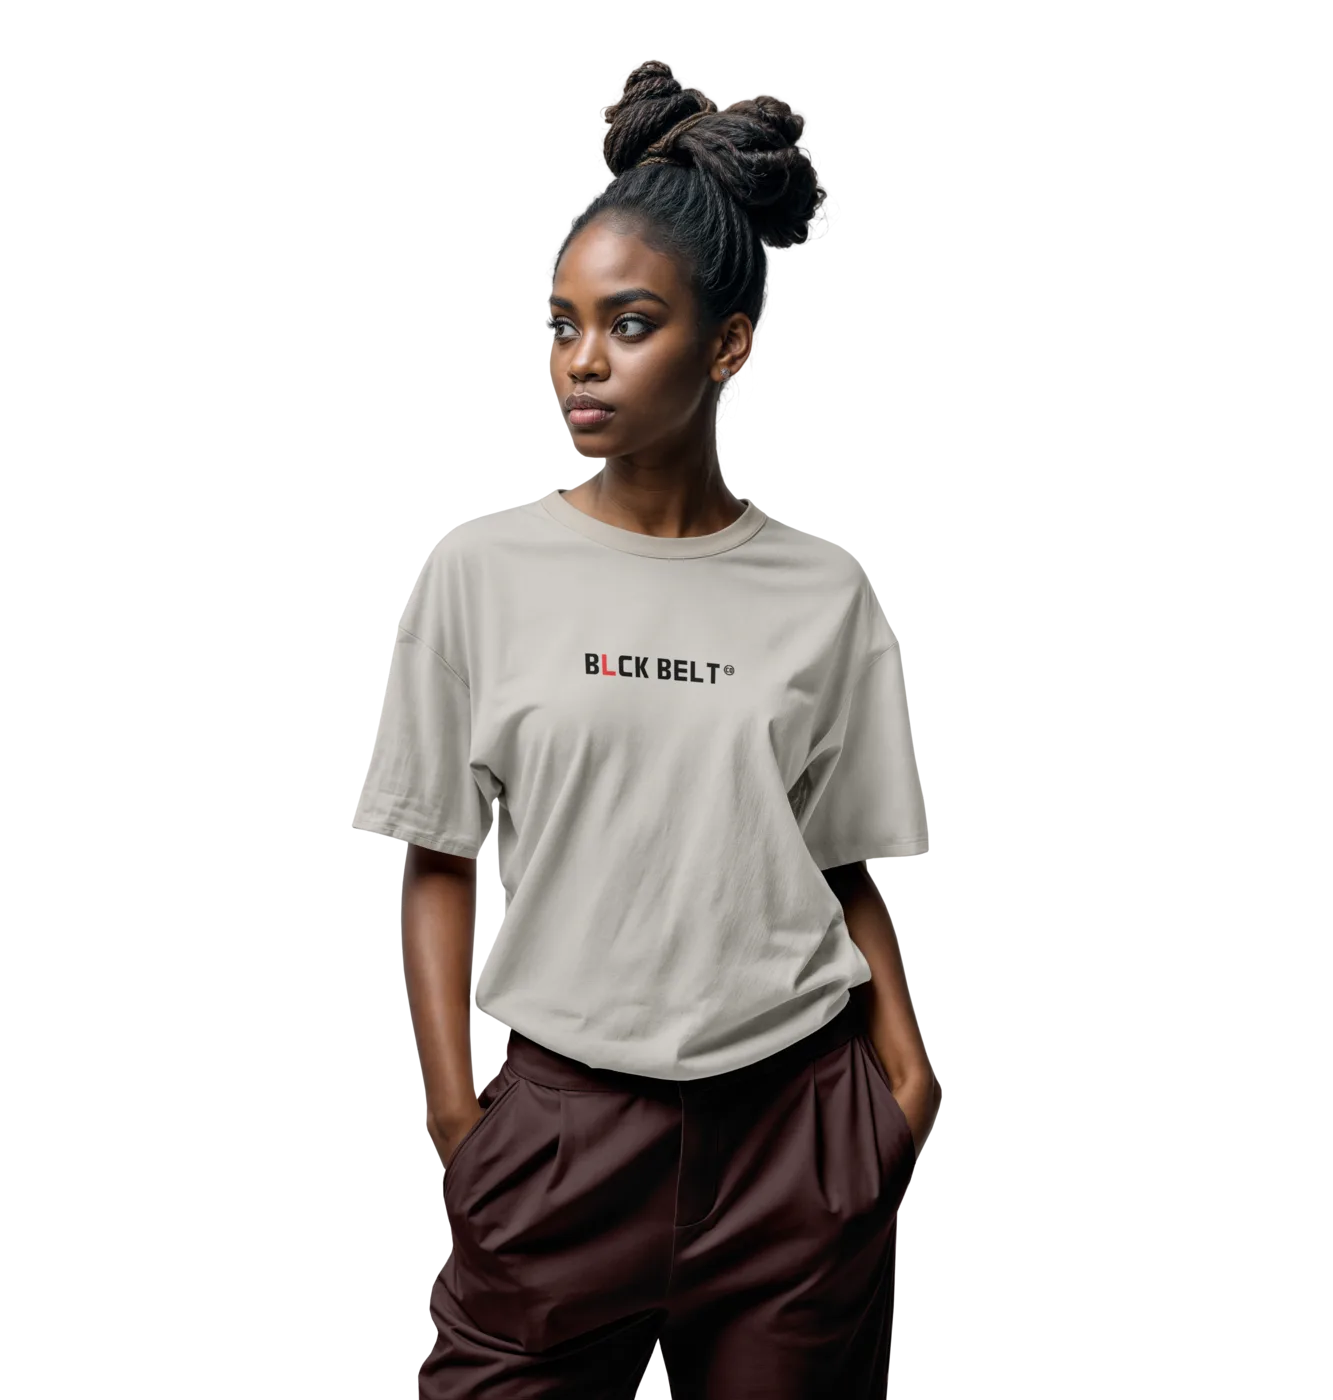
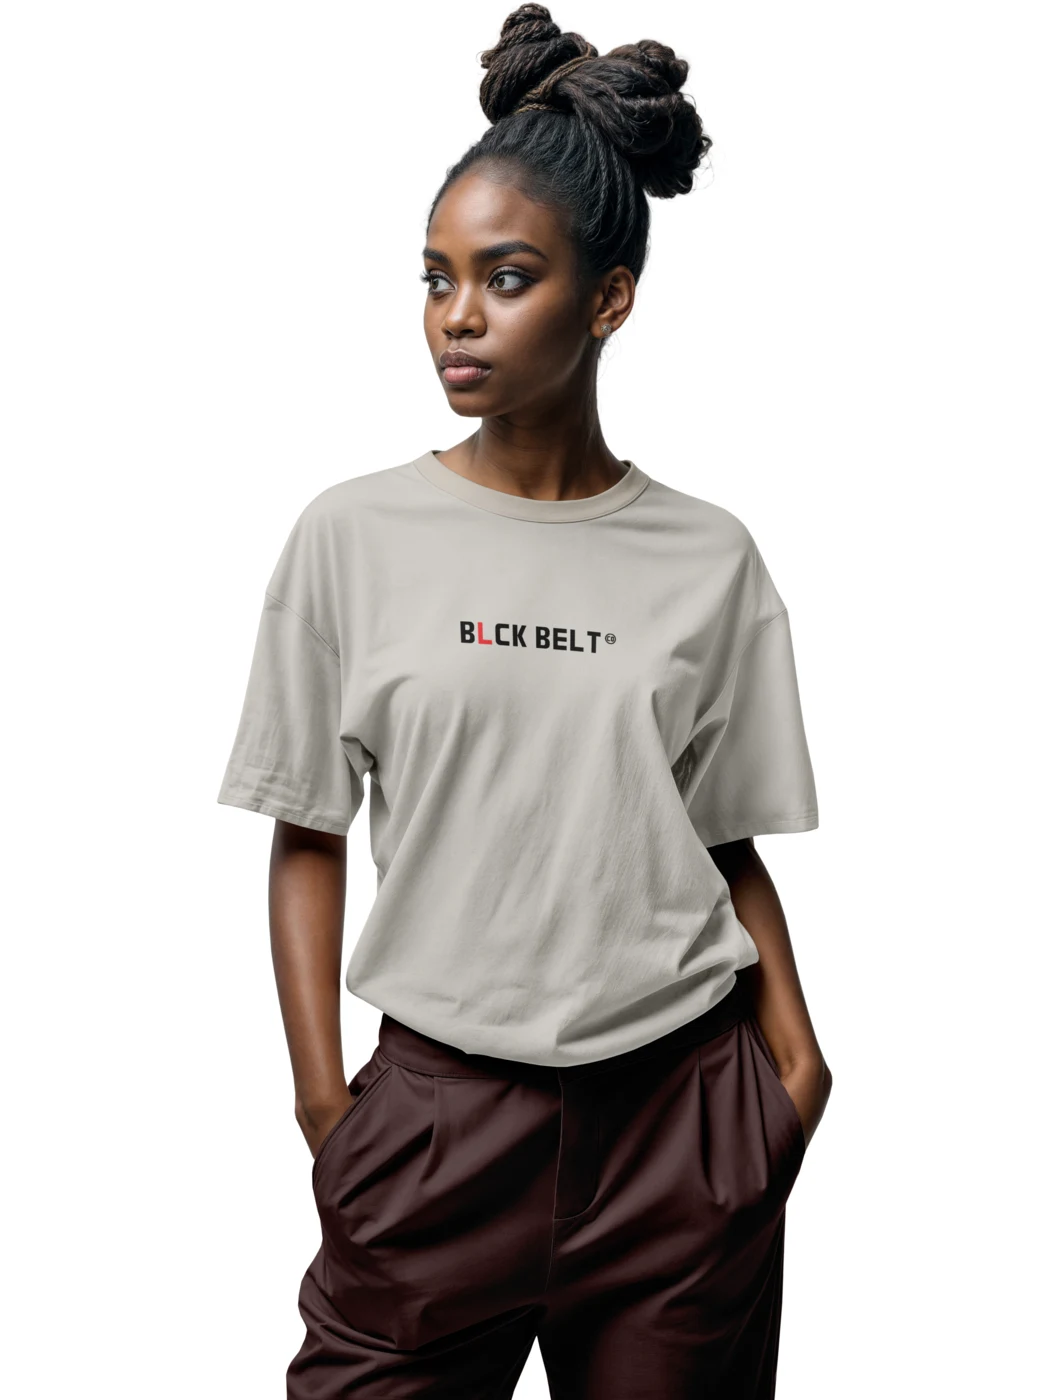
fix: padroniza fotos dos produtos pra 3:4 com modelo encostado na base
Black Belt original ja era 3/4 (preenchia o quadro), mas Eat Sleep (0.93) e Off
White (0.95) eram quase quadradas, entao com contain ficavam menores e flutuando
no meio do card.

Reprocessei as 6 fotos: trim do fundo (fuzz 7%) pra pegar o bbox do modelo +
recomposicao numa tela 3:4 (1050x1400) com gravity south (modelo encostado na
base) sobre fundo branco. Agora todas tem a mesma proporcao e o modelo preenche
a altura igual a primeira.

Componentes: ProductCard e PDP voltam pra object-cover (encaixe perfeito no 3:4,
base toca o fim do quadro), bg branco pra mesclar com o padding das fotos. PDP
main vira aspect-3/4. Validado: 3 cards com modelos da mesma altura, base alinhada.

Changed region(s): [[0.2133, 0.0, 0.7924, 1.0], [0.4876, 0.6143, 0.5181, 0.645]]

diff --git a/src/components/ProductCard.tsx b/src/components/ProductCard.tsx
@@ -17,14 +17,14 @@ export default function ProductCard({ product }: { product: Product }) {
 
   return (
     <Link href={`/produto/${product.slug}`} className="group block">
-      <div className="relative aspect-[3/4] bg-[#f3f3f4]">
+      <div className="relative aspect-[3/4] bg-white">
         {/* imagem principal */}
         <div className="absolute inset-0 transition-opacity duration-300 group-hover:opacity-0">
-          <ProductImage src={product.images[0]} alt={product.name} fit="contain" sizes="(max-width: 768px) 50vw, 33vw" className="h-full w-full" />
+          <ProductImage src={product.images[0]} alt={product.name} sizes="(max-width: 768px) 50vw, 33vw" className="h-full w-full" />
         </div>
         {/* segunda foto no hover */}
         <div className="absolute inset-0 opacity-0 transition-opacity duration-300 group-hover:opacity-100">
-          <ProductImage src={hover} alt={`${product.name} — verso`} fit="contain" sizes="(max-width: 768px) 50vw, 33vw" className="h-full w-full" />
+          <ProductImage src={hover} alt={`${product.name} — verso`} sizes="(max-width: 768px) 50vw, 33vw" className="h-full w-full" />
         </div>
         {product.badge && (
           <span

diff --git a/src/components/ProductDetail.tsx b/src/components/ProductDetail.tsx
@@ -45,11 +45,10 @@ export default function ProductDetail({ product }: { product: Product }) {
             </button>
           ))}
         </div>
-        <div className="order-1 aspect-[4/5] flex-1 lg:order-2">
+        <div className="order-1 aspect-[3/4] flex-1 lg:order-2">
           <ProductImage
             src={product.images[activeImg]}
             alt={product.name}
-            fit="contain"
             className="h-full w-full"
             sizes="(max-width: 1024px) 100vw, 50vw"
             priority

diff --git a/src/components/ProductImage.tsx b/src/components/ProductImage.tsx
@@ -19,9 +19,9 @@ export default function ProductImage({
   fit?: "cover" | "contain";
   zoomOnHover?: boolean;
 }) {
-  if (!src) return <div className={`bg-[#f3f3f4] ${className}`} />;
+  if (!src) return <div className={`bg-white ${className}`} />;
   return (
-    <div className={`relative overflow-hidden bg-[#f3f3f4] ${className}`}>
+    <div className={`relative overflow-hidden bg-white ${className}`}>
       <Image
         src={src}
         alt={alt}
